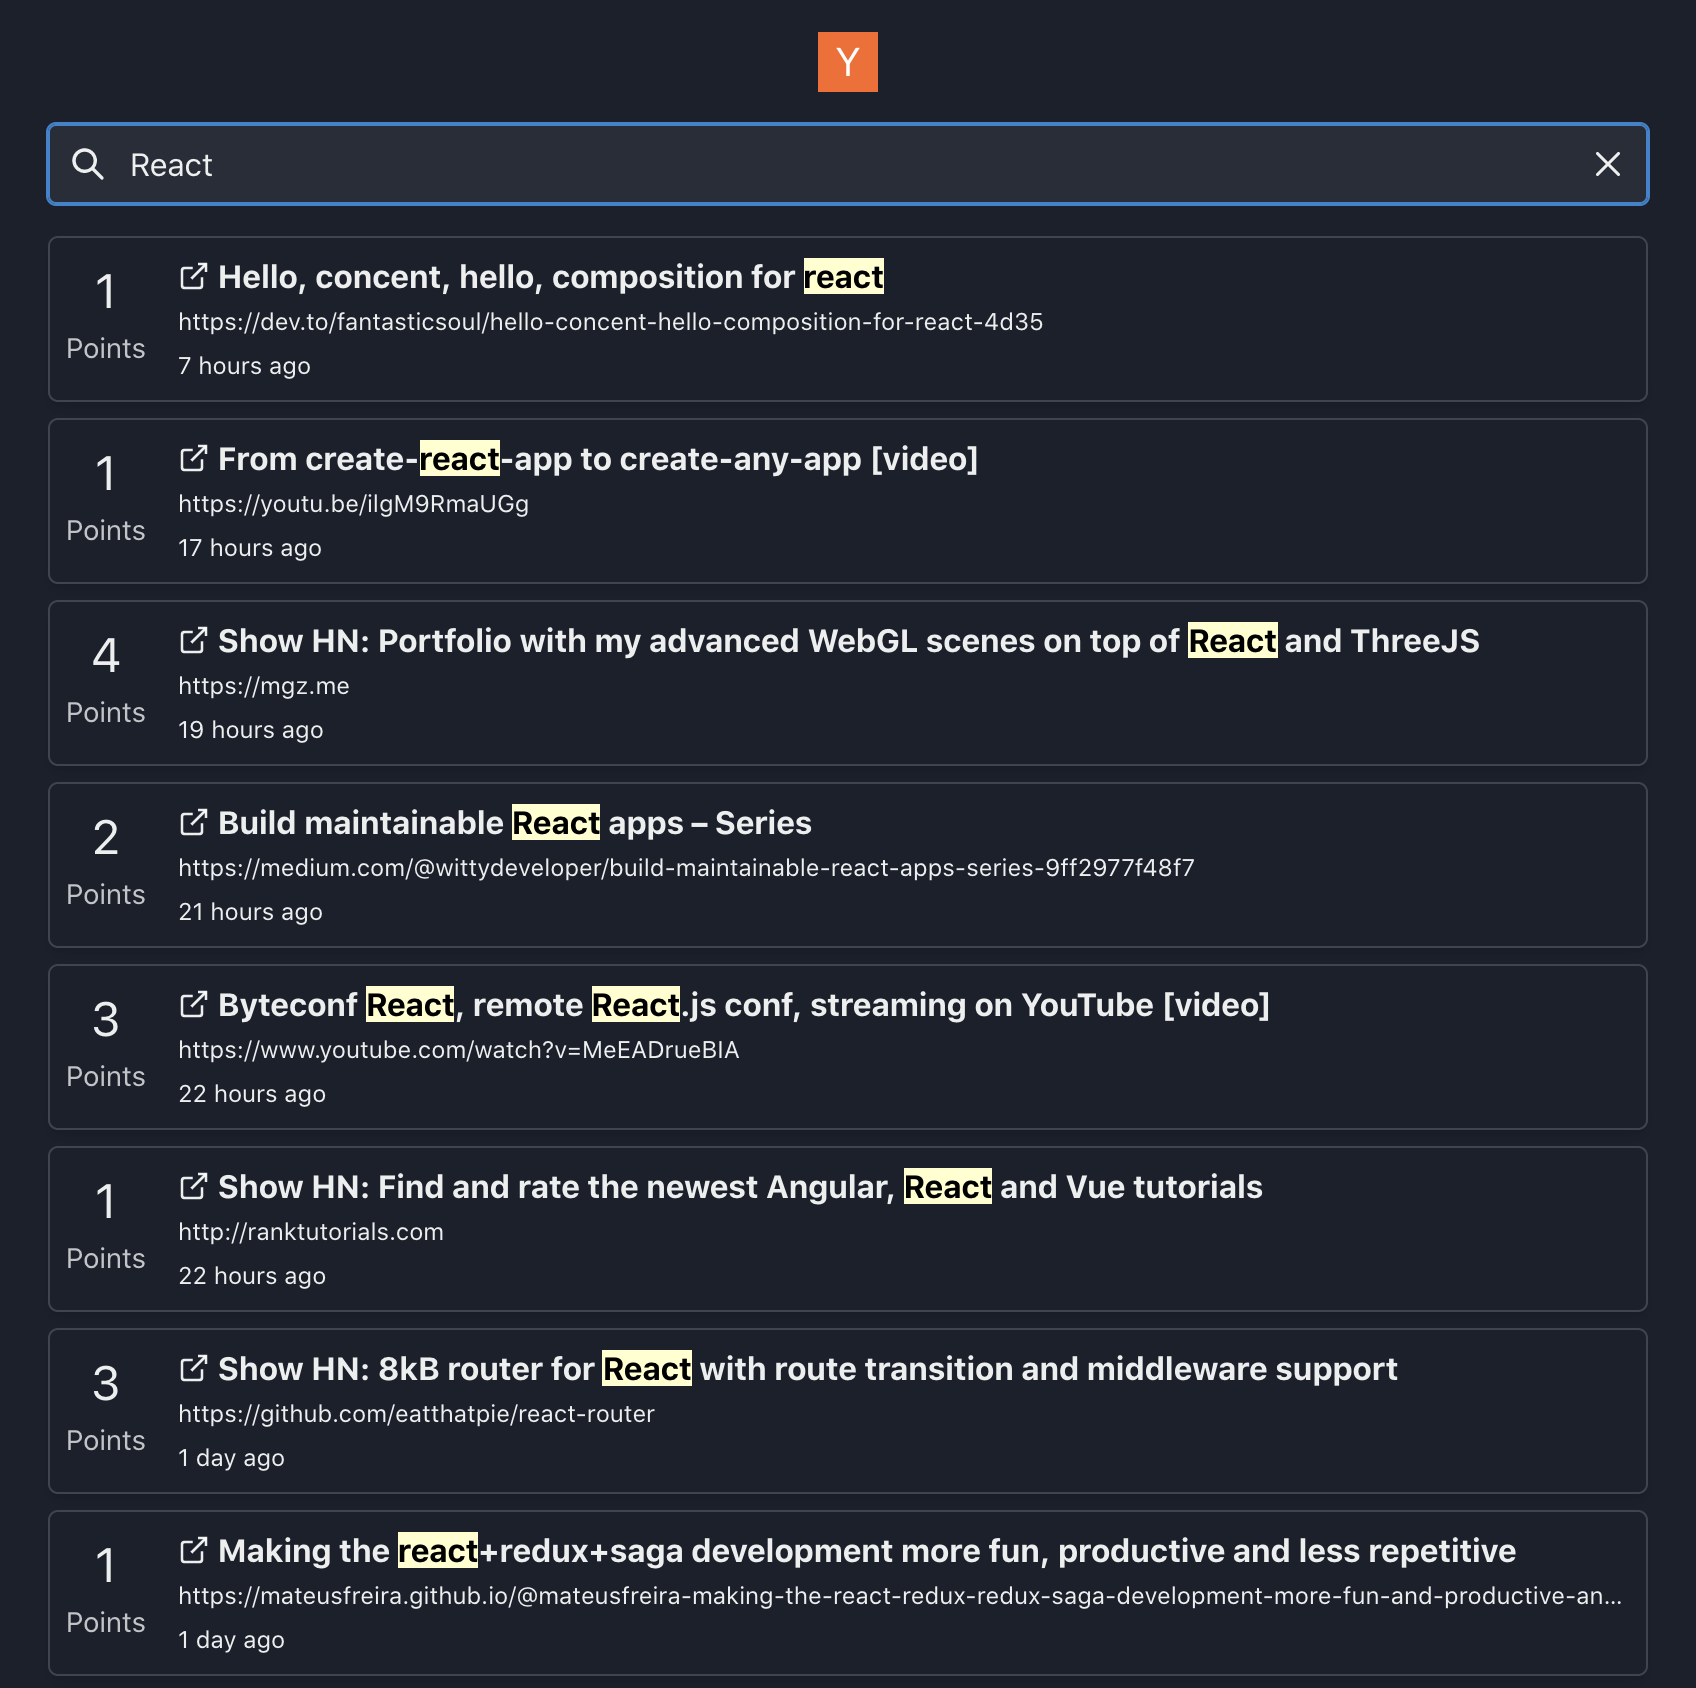
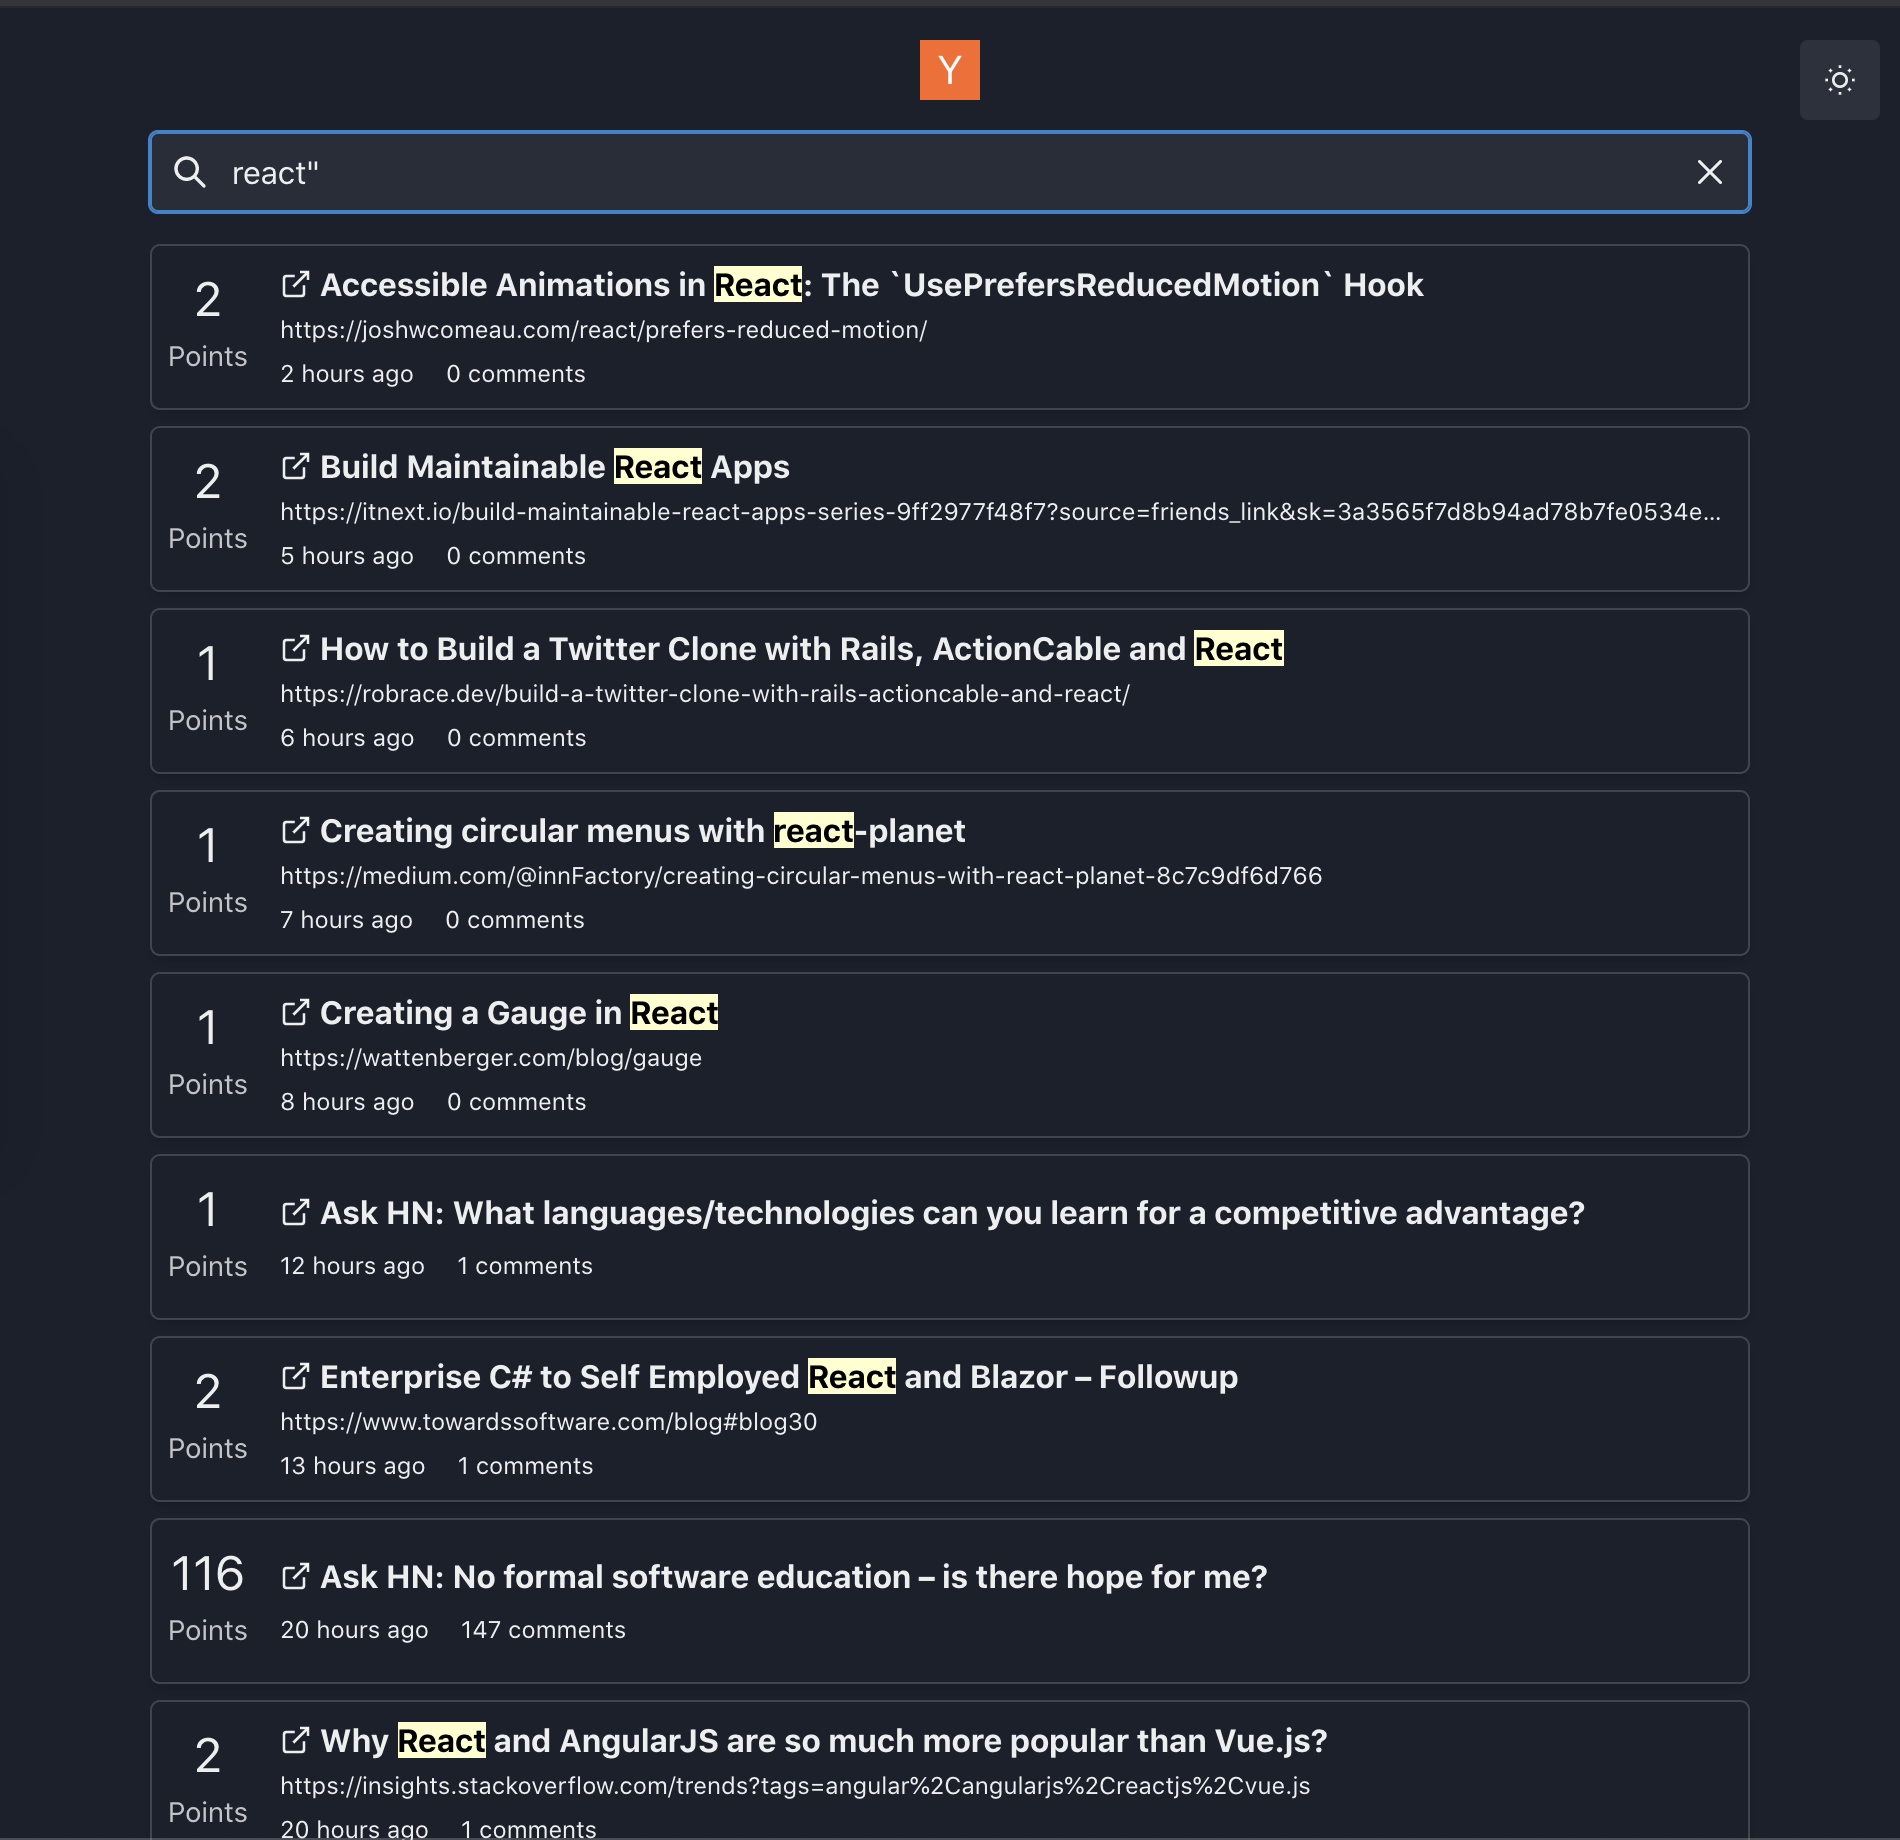
Add comments

diff --git a/src/components/Results.tsx b/src/components/Results.tsx
@@ -51,18 +51,16 @@ const Results: React.FC<IProps> = ({ resource, query, isPending }) => {
         </Box>
       )}
       {values.map((value) => {
+        const numComments = value.num_comments
+        const storyId = value.objectID
+        const storyUrl = `https://news.ycombinator.com/item?id=${storyId}`
+        const url = value.url || storyUrl
         const highlightedTitle = value._highlightResult.title.value
         const date = timeago.format(value.created_at)
         return (
-          <Link
-            {...boxProps}
-            target="_blank"
-            key={value.objectID}
-            href={value.url}
-            _hover={{
-              textDecoration: "none",
-              bg: colorMode === "dark" ? "blue.700" : "blue.50",
-            }}
+          <Box
+            {...boxProps}            
+            key={value.objectID}            
           >
             <Flex alignItems="center" flex={1} minWidth={0}>
               <StatGroup>
@@ -72,19 +70,21 @@ const Results: React.FC<IProps> = ({ resource, query, isPending }) => {
                 </Stat>
               </StatGroup>
               <Box minWidth={0}>
-                <Heading
-                  as="h1"
-                  size="sm"
-                  mb={1}
-                  alignItems="center"
-                  display="flex"
-                >
-                  <Icon name="external-link" mr={1} />
-                  <span
-                    className="result-title"
-                    dangerouslySetInnerHTML={{ __html: highlightedTitle }}
-                  />
-                </Heading>
+                <Link href={url} target='_blank'>
+                  <Heading
+                    as="h1"
+                    size="sm"
+                    mb={1}
+                    alignItems="center"
+                    display="flex"
+                  >
+                    <Icon name="external-link" mr={1} />
+                    <span
+                      className="result-title"
+                      dangerouslySetInnerHTML={{ __html: highlightedTitle }}
+                    />
+                  </Heading>
+                </Link>
                 <Text
                   title={value.url}
                   fontSize="xs"
@@ -97,10 +97,15 @@ const Results: React.FC<IProps> = ({ resource, query, isPending }) => {
                 >
                   {value.url}
                 </Text>
-                <Text fontSize="xs">{date}</Text>
+                <Stack spacing={4} isInline>
+                  <Text fontSize="xs">{date}</Text>
+                  <Link href={storyUrl} target='_blank'>
+                    <Text fontSize="xs">{numComments} comments</Text>
+                  </Link>
+                </Stack>
               </Box>
             </Flex>
-          </Link>
+          </Box>
         )
       })}
     </Stack>
